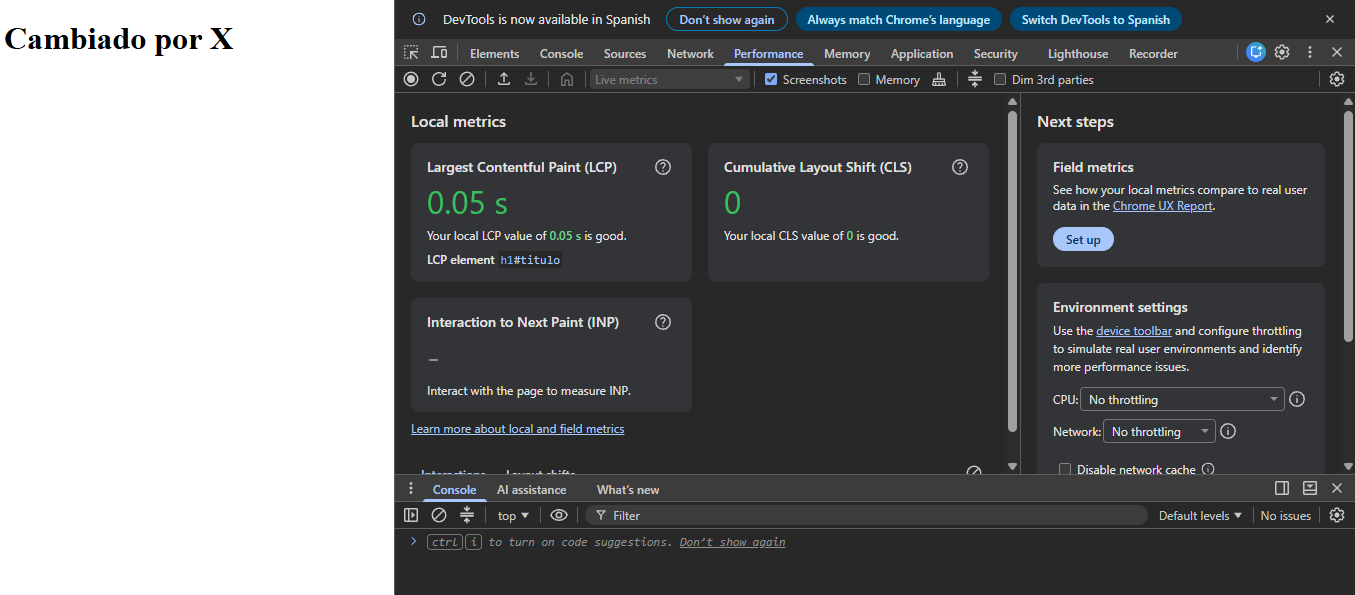
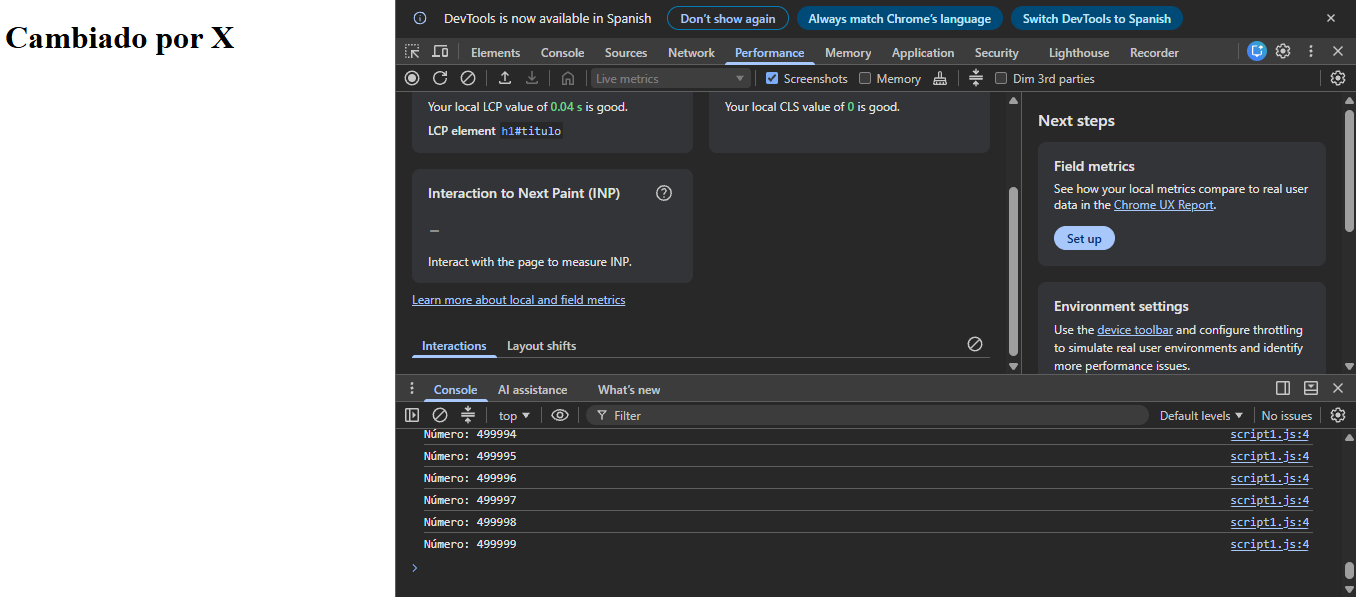
Update Actividad2

diff --git a/Actividad2/index.html b/Actividad2/index.html
@@ -4,14 +4,14 @@
     <meta charset="UTF-8">
     <meta name="viewport" content="width=device-width, initial-scale=1.0">
     <title>IndexAct2</title>
-    <!-- Prueba para ejecutar el script module en el head -->
-    <script src="script1.js"></script>
+
 </head>
 <body>
     
 <!-- Elemento vacío sobre el que trabajar -->
 <h1 id="titulo">Hola</h1>
 
-
+    <!-- Prueba para ejecutar el script module en el head -->
+    <script src="script1.js"></script>
 </body>
 </html>

diff --git a/Actividad2/script1.js b/Actividad2/script1.js
@@ -1,6 +1,6 @@
 
 // Bucle for para simular script pesado
-for(let i = 0; i < 1000000; i++){
+for(let i = 0; i < 500000; i++){
     console.log('Número: ' + i);
 }
 
